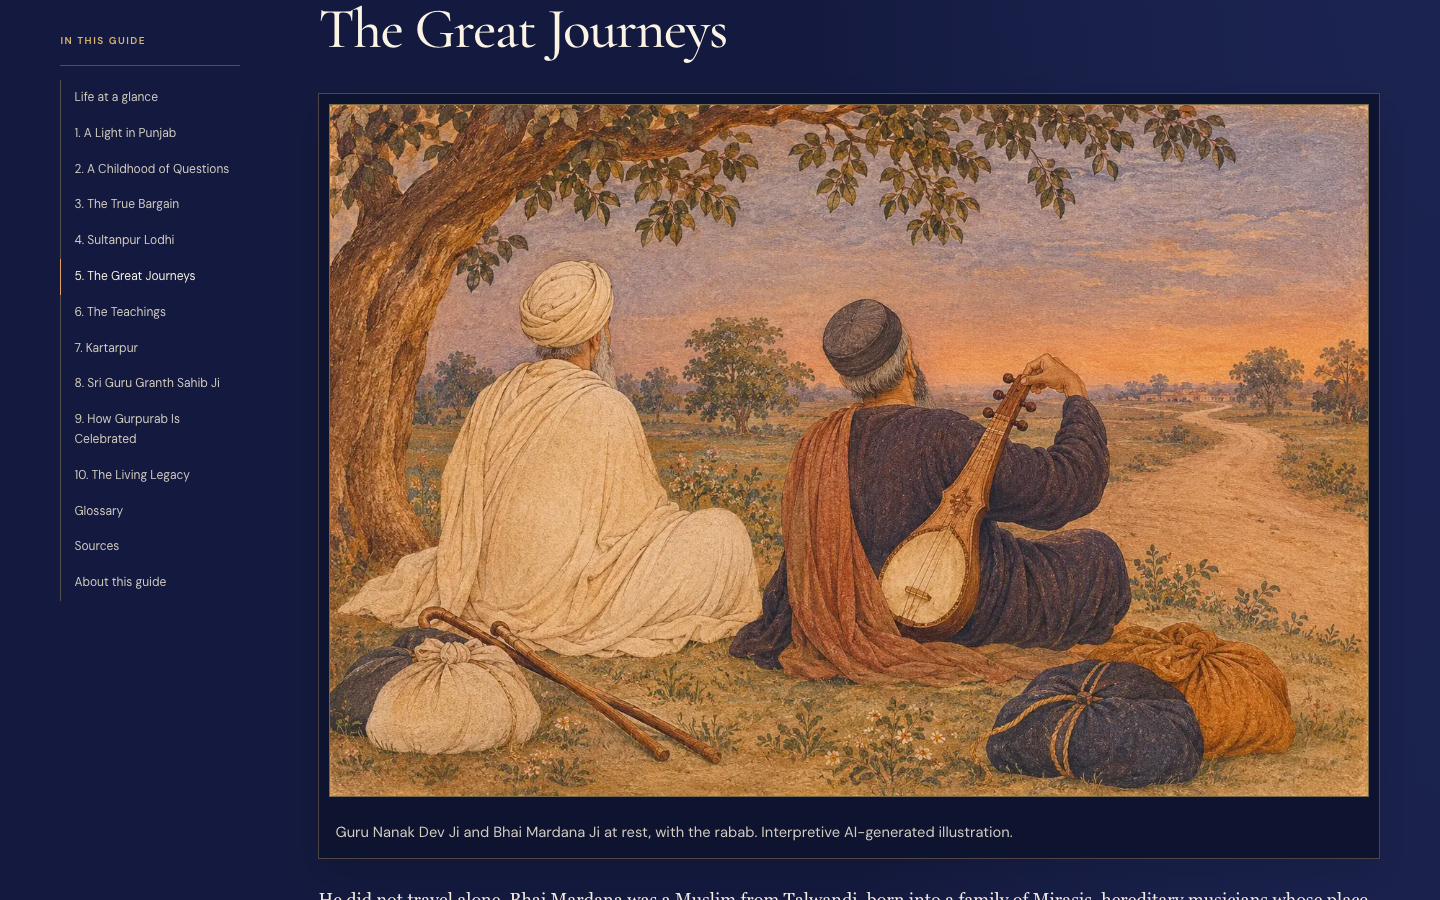
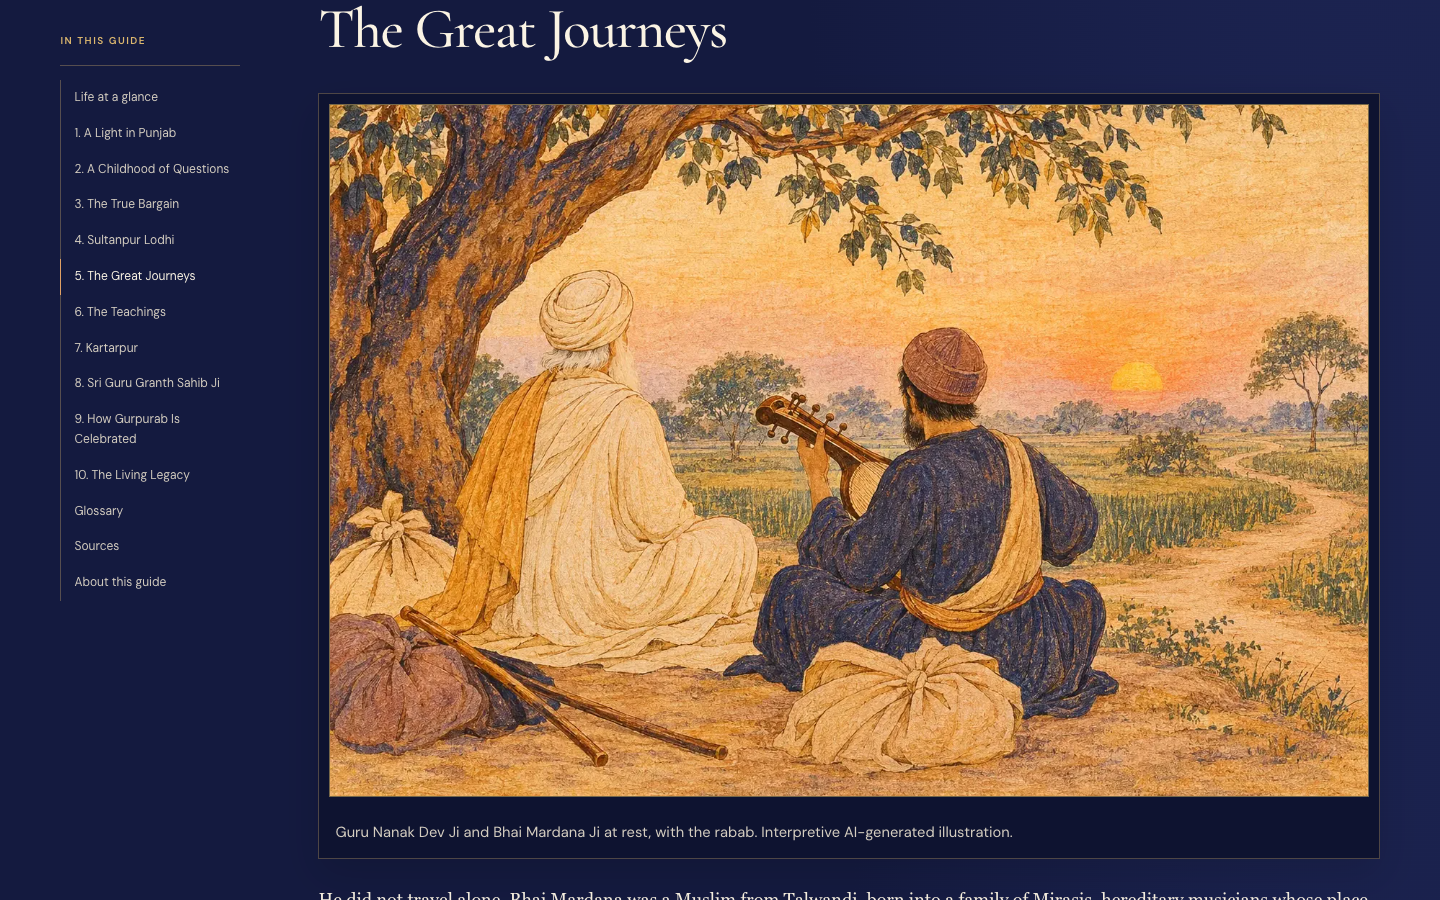
Improve the Bhai Mardana illustration and image prompts
Use the version in which the rabab is held naturally, with updated
bilingual alt text. Record the rejected images and add single-image
prompts for the seven illustrations still needed.

diff --git a/guru-nanak-gurpurab-hi.html b/guru-nanak-gurpurab-hi.html
@@ -147,7 +147,7 @@
 
 <section class="chapter" id="journeys">
   <h2><span class="chapter-number">अध्याय 5</span>महान यात्राएँ</h2>
-  <figure class="nanak-plate"><img src="images/guru-nanak-gurpurab/mardana.webp" alt="साँझ के समय पेड़ के नीचे विश्राम करते दो बुज़ुर्ग यात्री, जिनकी पीठ दिख रही है। एक क्रीम पगड़ी और शॉल में हैं, दूसरे गहरे रंग की टोपी और चोले में रबाब थामे हैं। पास में गठरियाँ और लाठियाँ हैं" width="1440" height="960" loading="lazy" decoding="async"><figcaption>रबाब के साथ विश्राम करते गुरु नानक देव जी और भाई मरदाना जी। व्याख्यात्मक, AI से बना चित्र।</figcaption></figure>
+  <figure class="nanak-plate"><img src="images/guru-nanak-gurpurab/mardana.webp" alt="सूर्यास्त के समय पेड़ के नीचे विश्राम करते दो यात्री, जिनकी पीठ दिख रही है। एक क्रीम पगड़ी और केसरी शॉल में हैं, दूसरे कत्थई टोपी और नीले चोले में रबाब बजा रहे हैं। पास में कपड़े की गठरियाँ और लाठियाँ हैं" width="1440" height="960" loading="lazy" decoding="async"><figcaption>रबाब के साथ विश्राम करते गुरु नानक देव जी और भाई मरदाना जी। व्याख्यात्मक, AI से बना चित्र।</figcaption></figure>
   <p>वे अकेले नहीं गए। भाई मरदाना तलवंडी के एक मुसलमान थे और मिरासी परिवार में जन्मे थे। मिरासी पुश्तैनी संगीतकार होते थे, जिनका समाज में स्थान नीचा माना जाता था। वे नानक से कुछ बरस बड़े थे और उन्हें बचपन से जानते थे। वे <em>रबाब</em> बजाते थे, जो गहरी और गूँजती आवाज़ वाला एक तार-वाद्य है।</p>
   <p>ज़रा सोचिए कि उस ज़माने में इस साथ का अर्थ क्या था। हिंदू खत्री परिवार में जन्मा एक व्यक्ति और समाज में नीचा माना जाने वाला एक मुसलमान संगीतकार बरसों तक एक ही राह पर चले, एक ही भोजन किया और साथ मिलकर प्रभु का गुणगान किया। कुछ कहने से पहले ही इन दोनों का साथ अपने आप में संदेश था।</p>
   <p>इस सबके केंद्र में संगीत था। गुरु नानक मुख्य रूप से भाषणों या बहसों से नहीं सिखाते थे। वे गाते, मरदाना बजाते, और लोग रुककर सुनने लगते। उनकी शिक्षाएँ कविता थीं, जो लोगों की अपनी बोलियों में रची गईं और <em>राग</em> कहलाने वाली शास्त्रीय धुनों में बाँधी गईं। वाणी के गायन की यह परंपरा, <em>कीर्तन</em>, आज भी सिख उपासना का हृदय है। श्री गुरु ग्रंथ साहिब जी में ऐसे श्लोक सुरक्षित हैं जिनमें गुरु नानक मरदाना को नाम लेकर संबोधित करते हैं।</p>

diff --git a/guru-nanak-gurpurab.html b/guru-nanak-gurpurab.html
@@ -147,7 +147,7 @@
 
 <section class="chapter" id="journeys">
   <h2><span class="chapter-number">Chapter 5</span>The Great Journeys</h2>
-  <figure class="nanak-plate"><img src="images/guru-nanak-gurpurab/mardana.webp" alt="Two elderly travellers seen from behind, resting under a tree at dusk, one in a cream turban and shawl and the other in a dark cap and robe holding a rabab, with bundles and walking sticks beside them" width="1440" height="960" loading="lazy" decoding="async"><figcaption>Guru Nanak Dev Ji and Bhai Mardana Ji at rest, with the rabab. Interpretive AI-generated illustration.</figcaption></figure>
+  <figure class="nanak-plate"><img src="images/guru-nanak-gurpurab/mardana.webp" alt="Two travellers seen from behind, resting under a tree at sunset, one in a cream turban and saffron shawl and the other in a rust-coloured cap and indigo robe playing a rabab, with cloth bundles and walking sticks beside them" width="1440" height="960" loading="lazy" decoding="async"><figcaption>Guru Nanak Dev Ji and Bhai Mardana Ji at rest, with the rabab. Interpretive AI-generated illustration.</figcaption></figure>
   <p>He did not travel alone. Bhai Mardana was a Muslim from Talwandi, born into a family of Mirasis, hereditary musicians whose place in society was low. He was some years older than Nanak and had known him since childhood. He played the <em>rabab</em>, a plucked string instrument with a deep, resonant voice.</p>
   <p>Consider what that companionship meant in the world of the time. A man born a Hindu Khatri and a low-status Muslim musician shared the road, the food and the work of worship for years. Before anything was preached, the two of them were themselves the message.</p>
   <p>Music was at the centre of it. Guru Nanak did not teach mainly through lectures or argument. He sang, Mardana played, and people stopped to listen. His teachings were poetry, composed in the languages people actually spoke and set to the classical musical modes called <em>raag</em>. The practice of singing the Divine Word, <em>kirtan</em>, remains at the heart of Sikh worship today. Sri Guru Granth Sahib Ji preserves verses in which Guru Nanak addresses Mardana by name.</p>

diff --git a/docs/guru-nanak-gurpurab/image-prompt-pack.md b/docs/guru-nanak-gurpurab/image-prompt-pack.md
@@ -14,45 +14,71 @@ Thirteen ready-to-paste prompts: 12 guide illustrations and 1 social preview ima
 
 ---
 
-## Round 2: use these first
+## Round 3: the 7 images still needed
 
-Images 2, 3, 4, 5, 6 and 10 are approved and placed. **Regenerate Images 1, 7, 8 and 9 with the prompts below**, then generate Images 11, 12 and 13 from the original prompts further down this pack.
+Images 2, 3, 4, 5, 6 and 10 are approved and placed.
 
-### Image 9 (revised): Sri Guru Granth Sahib Ji
+**Use one prompt per generation, ideally in a new image chat each time.** Sending several prompts together is what produces a grid of small panels, which cannot be used.
 
-Why: the first version looked like a large draped tomb or bed.
+### Image 9: Sri Guru Granth Sahib Ji
+
+Check: The most important image. It must read clearly as one covered book.
 
 ```text
-A reverent painting inside a simple, serene gurdwara, viewed from the front at a respectful distance. At the centre is a low, elegant carved wooden manji sahib (a small raised throne-like stand) on a modest platform, beneath a small embroidered square canopy. Resting on the manji sahib is one single large closed book, clearly compact, rectangular and book-sized, about the width of a person's shoulders, supported by small cushions and completely covered by a neatly draped indigo and ivory rumala cloth, so its book shape is obvious but no page or writing shows. A few fresh flowers sit modestly on the floor in front. No people. Quiet, luminous and sacred. Refined heritage painting with fine brushwork in gouache and natural pigments on ivory wasli paper, soft warm light, restrained palette of ivory, deep indigo, muted saffron and warm gold. Landscape 3:2. It must NOT resemble a tomb, grave, cenotaph, dargah, coffin, bed, mattress or large mound. No oversized canopy, no railings, no grand palace. No open book, pages, text, letters, numerals, script, signature, watermark, logo or border. No idols, deities, portraits, halos, light rays, Om, lotus, crescent or added symbols. No shoes. No comic-book, anime, cartoon, 3D or photographic look.
+Create ONE single full-frame illustration only, not a grid, collage, storyboard, contact sheet or series of panels. A reverent painting inside a simple, serene gurdwara, viewed from the front at a respectful distance. At the centre is a low, elegant carved wooden manji sahib (a small raised throne-like stand) on a modest platform, beneath a small embroidered square canopy. Resting on the manji sahib is one single large closed book, clearly compact, rectangular and book-sized, about the width of a person's shoulders, supported by small cushions and completely covered by a neatly draped indigo and ivory rumala cloth, so its book shape is obvious but no page or writing shows. A few fresh flowers sit modestly on the floor in front. No people. Quiet, luminous and sacred. Refined heritage painting with fine brushwork in gouache and natural pigments on ivory wasli paper, soft warm light, restrained palette of ivory, deep indigo, muted saffron and warm gold. Landscape 3:2. It must NOT resemble a tomb, grave, cenotaph, dargah, coffin, bed, mattress or large mound. No oversized canopy, no railings, no grand palace. No open book, pages, text, letters, numerals, script, signature, watermark, logo or border. No idols, deities, portraits, halos, light rays, Om, lotus, crescent or added symbols. No shoes. No comic-book, anime, cartoon, 3D or photographic look.
 ```
 
-### Image 1 (revised): Guru Nanak Dev Ji
+### Image 1: Guru Nanak Dev Ji
 
-Why: part of the Guru's face was visible in profile.
+Check: Only the back of the head and shoulders should show.
 
 ```text
-A reverent heritage painting of a solitary elderly teacher seen from directly behind in the middle distance, standing still on a path at the edge of a quiet Punjabi wheat field at first light. His head faces straight ahead toward the horizon and is turned completely away from the viewer, so only the back of a plain cream cloth head-wrap, the back of his white hair, and his shoulders can be seen. Absolutely no nose, cheek, eye, ear, forehead or beard profile is visible. He wears a long undyed cotton robe and a plain muted saffron shawl. The figure occupies about one quarter of the image height, with a wide glowing horizon and generous empty sky. Calm, humble and contemplative. Refined painting in the spirit of early Punjab manuscript and miniature art, gouache and natural pigments on handmade ivory wasli paper, fine brushwork, soft atmospheric light, restrained palette of ivory, deep indigo, muted saffron and warm gold. Landscape 3:2. No side view, no three-quarter view, no visible face, no halo or glowing aura. No text, letters, numerals, script, signature, watermark, logo or border. No deities, temples, Om, lotus, crescent, Khanda or other religious symbols. No comic-book, anime, cartoon, 3D or photographic look.
+Create ONE single full-frame illustration only, not a grid, collage, storyboard, contact sheet or series of panels. A reverent heritage painting of a solitary elderly teacher seen from directly behind in the middle distance, standing still on a path at the edge of a quiet Punjabi wheat field at first light. His head faces straight ahead toward the horizon and is turned completely away from the viewer, so only the back of a plain cream cloth head-wrap, the back of his white hair, and his shoulders can be seen. Absolutely no nose, cheek, eye, ear, forehead or beard profile is visible. He wears a long undyed cotton robe and a plain muted saffron shawl. The figure occupies about one quarter of the image height, with a wide glowing horizon and generous empty sky. Calm, humble and contemplative. Refined painting in the spirit of early Punjab manuscript and miniature art, gouache and natural pigments on handmade ivory wasli paper, fine brushwork, soft atmospheric light, restrained palette of ivory, deep indigo, muted saffron and warm gold. Landscape 3:2. No side view, no three-quarter view, no visible face, no halo or glowing aura. No text, letters, numerals, script, signature, watermark, logo or border. No deities, temples, Om, lotus, crescent, Khanda or other religious symbols. No comic-book, anime, cartoon, 3D or photographic look.
 ```
 
-### Image 7 (revised): The Kartarpur Community
+### Image 7: The Kartarpur Community
 
-Why: a central white-bearded teacher could be mistaken for the Guru with his face showing.
+Check: No teacher or seated circle.
 
 ```text
-A modest farming settlement on the bank of the Ravi River in Punjab in the 1530s, seen from a high, gentle distance at the end of the day: simple mud-brick and thatch dwellings around a shared open courtyard, irrigated green fields, a wooden Persian wheel at a brick well, and bullocks returning home. Many very small ordinary men, women and children are walking in from the fields and carrying baskets and water pots, all busy and equal, with no individual standing out. Peaceful, cooperative and humble. Refined heritage painting in the spirit of early Punjab manuscript and miniature art, gouache and natural pigments on handmade ivory wasli paper, fine brushwork, golden evening light, restrained palette of ivory, deep indigo, muted saffron and warm gold. Landscape 3:2. No seated circle, no gathering around anyone, no teacher, elder, preacher or central holy figure, and no prominent white-bearded man. No domes, grand buildings, modern gurdwara or temples. No text, letters, numerals, script, signature, watermark, logo or border. No deities, halos, Om, lotus, crescent, Khanda, flags or other religious symbols. No comic-book, anime, cartoon, 3D or photographic look.
+Create ONE single full-frame illustration only, not a grid, collage, storyboard, contact sheet or series of panels. A modest farming settlement on the bank of the Ravi River in Punjab in the 1530s, seen from a high, gentle distance at the end of the day: simple mud-brick and thatch dwellings around a shared open courtyard, irrigated green fields, a wooden Persian wheel at a brick well, and bullocks returning home. Many very small ordinary men, women and children are walking in from the fields and carrying baskets and water pots, all busy and equal, with no individual standing out. Peaceful, cooperative and humble. Refined heritage painting in the spirit of early Punjab manuscript and miniature art, gouache and natural pigments on handmade ivory wasli paper, fine brushwork, golden evening light, restrained palette of ivory, deep indigo, muted saffron and warm gold. Landscape 3:2. No seated circle, no gathering around anyone, no teacher, elder, preacher or central holy figure, and no prominent white-bearded man. No domes, grand buildings, modern gurdwara or temples. No text, letters, numerals, script, signature, watermark, logo or border. No deities, halos, Om, lotus, crescent, Khanda, flags or other religious symbols. No comic-book, anime, cartoon, 3D or photographic look.
 ```
 
-### Image 8 (revised): Honest Work and Shared Meals
+### Image 8: Honest Work and Shared Meals
 
-Why: the ladle was pouring dal onto a seated man's shoulder.
+Check: Nothing should be poured.
 
 ```text
-A sixteenth-century Punjabi farming community sharing a simple meal at the edge of a harvested wheat field. Men and women of different ages and social backgrounds, in plain long-sleeved cotton clothes of humble traditional styles, sit together in one straight row on the ground at the same level, eating roti and dal from leaf plates and small clay bowls placed in front of them. One woman walks behind the row carrying a basket of roti, and one man bends low to set a full clay bowl carefully on the ground in front of a diner. Nothing is being poured. Sickles and bundles of wheat rest nearby, with workers in the distant field. Dignified, warm and egalitarian, with no one placed above another. Refined heritage painting in the spirit of early Punjab manuscript and miniature art, gouache and natural pigments on handmade ivory wasli paper, fine brushwork, soft late-day light, restrained palette of ivory, deep indigo, muted saffron and warm gold. Landscape 3:2. No ladles, no spilled food, no sleeveless vests or undershirts, no meat or alcohol, no central holy figure. No text, letters, numerals, script, signature, watermark, logo or border. No deities, halos, tilak, Om, lotus, crescent, Khanda or other religious symbols. No comic-book, anime, cartoon, 3D or photographic look.
+Create ONE single full-frame illustration only, not a grid, collage, storyboard, contact sheet or series of panels. A sixteenth-century Punjabi farming community sharing a simple meal at the edge of a harvested wheat field. Men and women of different ages and social backgrounds, in plain long-sleeved cotton clothes of humble traditional styles, sit together in one straight row on the ground at the same level, eating roti and dal from leaf plates and small clay bowls placed in front of them. One woman walks behind the row carrying a basket of roti, and one man bends low to set a full clay bowl carefully on the ground in front of a diner. Nothing is being poured. Sickles and bundles of wheat rest nearby, with workers in the distant field. Dignified, warm and egalitarian, with no one placed above another. Refined heritage painting in the spirit of early Punjab manuscript and miniature art, gouache and natural pigments on handmade ivory wasli paper, fine brushwork, soft late-day light, restrained palette of ivory, deep indigo, muted saffron and warm gold. Landscape 3:2. No ladles, no spilled food, no sleeveless vests or undershirts, no meat or alcohol, no central holy figure. No text, letters, numerals, script, signature, watermark, logo or border. No deities, halos, tilak, Om, lotus, crescent, Khanda or other religious symbols. No comic-book, anime, cartoon, 3D or photographic look.
+```
+
+### Image 11: Nagar Kirtan
+
+Check: Count the saffron figures. There must be exactly five.
+
+```text
+Create ONE single full-frame illustration only, not a grid, collage, storyboard, contact sheet or series of panels. A Nagar Kirtan procession on a street in a Punjabi town in soft morning light, viewed from the side. In the foreground walk only five men in single file with wide, clear gaps between them, so that each of the five can be counted easily: one, two, three, four, five. They are the Panj Pyare, in matching saffron cholas with blue sashes and matching saffron turbans, each with a short sheathed kirpan at the waist, hands gently joined, walking barefoot with solemn dignity. There is no sixth person in saffron. Far behind them, small in the distance, is a flower-decorated float with a closed canopy whose curtains are drawn, so nothing inside can be seen. Two volunteers sweep the road well ahead of the five, wearing white. Families with covered heads line the street, joyful and respectful. Refined heritage painting with fine brushwork in gouache and natural pigments on ivory wasli paper, restrained palette of ivory, deep indigo, muted saffron and warm gold. Landscape 3:2. Exactly five Panj Pyare, never four or six. No other figures in saffron robes. No long swords, drawn swords or raised weapons. No mound or draped shape on the float. No flags, banners, signs or emblems. No text, letters, numerals, script, signature, watermark, logo or border. No idols, deities, halos, Om, lotus, crescent or added symbols. No comic-book, anime, cartoon, 3D or photographic look.
+```
+
+### Image 12: Langar and Seva
+
+Check: Check that every head is covered and the food is vegetarian.
+
+```text
+Create ONE single full-frame illustration only, not a grid, collage, storyboard, contact sheet or series of panels. Langar in a large gurdwara dining hall: people of every age, background and walk of life sit side by side in long straight rows on floor mats, all at the same level, every head covered with a turban, patka, scarf or chunni. Volunteers walk along the rows serving dal and roti from steel buckets onto steel thalis, with natural hands and warm, humble expressions. Large cooking pots and people rolling rotis are visible in the background. Busy, joyful and deeply egalitarian. Refined heritage painting with fine brushwork in gouache and natural pigments on ivory wasli paper, warm light, restrained palette of ivory, deep indigo, muted saffron and warm gold. Landscape 3:2. Vegetarian food only, no meat, eggs or alcohol. No shoes in the dining rows. No text, letters, numerals, script, signature, watermark, logo, banner or border. No idols, deities, halos, Om, lotus, crescent or added symbols. No comic-book, anime, cartoon, 3D or photographic look.
+```
+
+### Image 13: Social preview
+
+Check: Use a wide format, about 1.91:1.
+
+```text
+Create ONE single full-frame illustration only, not a grid, collage, storyboard, contact sheet or series of panels. A wide, serene landscape of the Punjab plains at sunrise for a website banner: golden wheat fields in the foreground, a slow river curving through the middle distance, a single line of trees, and a vast deep-indigo sky warming to saffron and gold at the horizon. No people. Strong, simple composition with calm open space in the left half. Refined heritage painting in the spirit of early Punjab manuscript and miniature art, gouache and natural pigments on handmade ivory wasli paper, fine brushwork, restrained palette of ivory, deep indigo, muted saffron and warm gold. Wide format, 1.91:1. No buildings. No text, letters, numerals, script, signature, watermark, logo or border. No deities, halos, Om, lotus, crescent, Khanda or other religious symbols. No comic-book, anime, cartoon, 3D or photographic look.
 ```
 
 ---
 
-## Original prompts
+## Original prompts (archive: use Round 3 above for remaining images)
 
 ## Image 1: Guru Nanak Dev Ji
 

diff --git a/docs/guru-nanak-gurpurab/qa.md b/docs/guru-nanak-gurpurab/qa.md
@@ -14,7 +14,7 @@ Reviewed 21 November 2026. Automated checks prove structure and exact text match
 
 ## Not complete
 
-- **Illustrations:** 6 of 12 are placed after full-size review. Plates 1, 7, 8 and 9 were held for cultural or visual errors, and Plates 11 and 12 are not yet supplied. See `artwork.json`.
+- **Illustrations:** 6 of 12 are placed after full-size review. Plates 1, 7, 8, 9 and 11 were held for cultural or visual errors, and Plate 12 is not yet supplied. See `artwork.json`.
 - **Social image:** no page-specific image yet, so the pages use a summary card.
 - **Sikh reviewer:** no knowledgeable Sikh reader has reviewed the guide.
 - **Hindi:** written and proofread by the agent, not by a native-speaking editor.

diff --git a/docs/guru-nanak-gurpurab/image-briefs.md b/docs/guru-nanak-gurpurab/image-briefs.md
@@ -1,6 +1,6 @@
 # Guru Nanak Dev Ji Gurpurab: image briefs
 
-**Status: 6 of 12 images placed** (Plates 2, 3, 4, 5, 6 and 10). Plates 1, 7, 8 and 9 need regeneration, and Plates 11 and 12 plus the social image are still to be supplied. See `artwork.json` and `image-prompt-pack.md`. Remaining slots show labelled "Illustration pending" panels.
+**Status: 6 of 12 images placed** (Plates 2, 3, 4, 5, 6 and 10). Plates 1, 7, 8, 9 and 11 need regeneration, and Plate 12 plus the social image are still to be supplied. See `artwork.json` and `image-prompt-pack.md`. Remaining slots show labelled "Illustration pending" panels.
 
 ## Decide before generating
 
